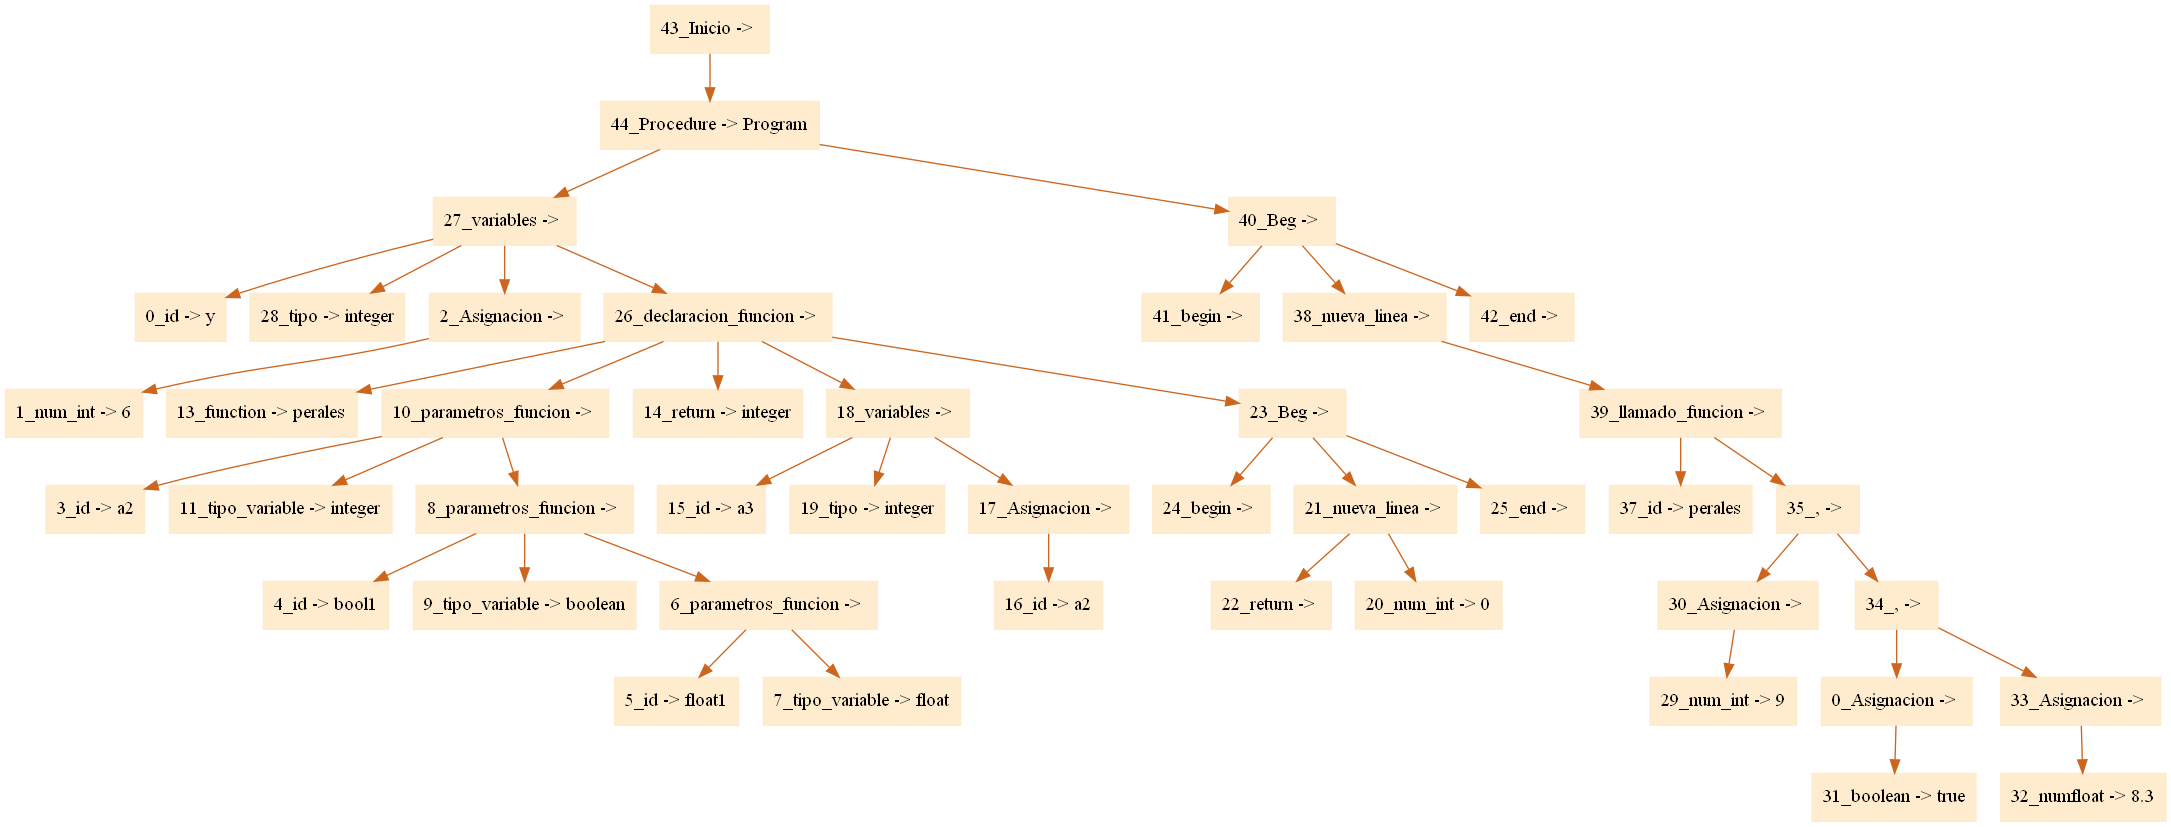
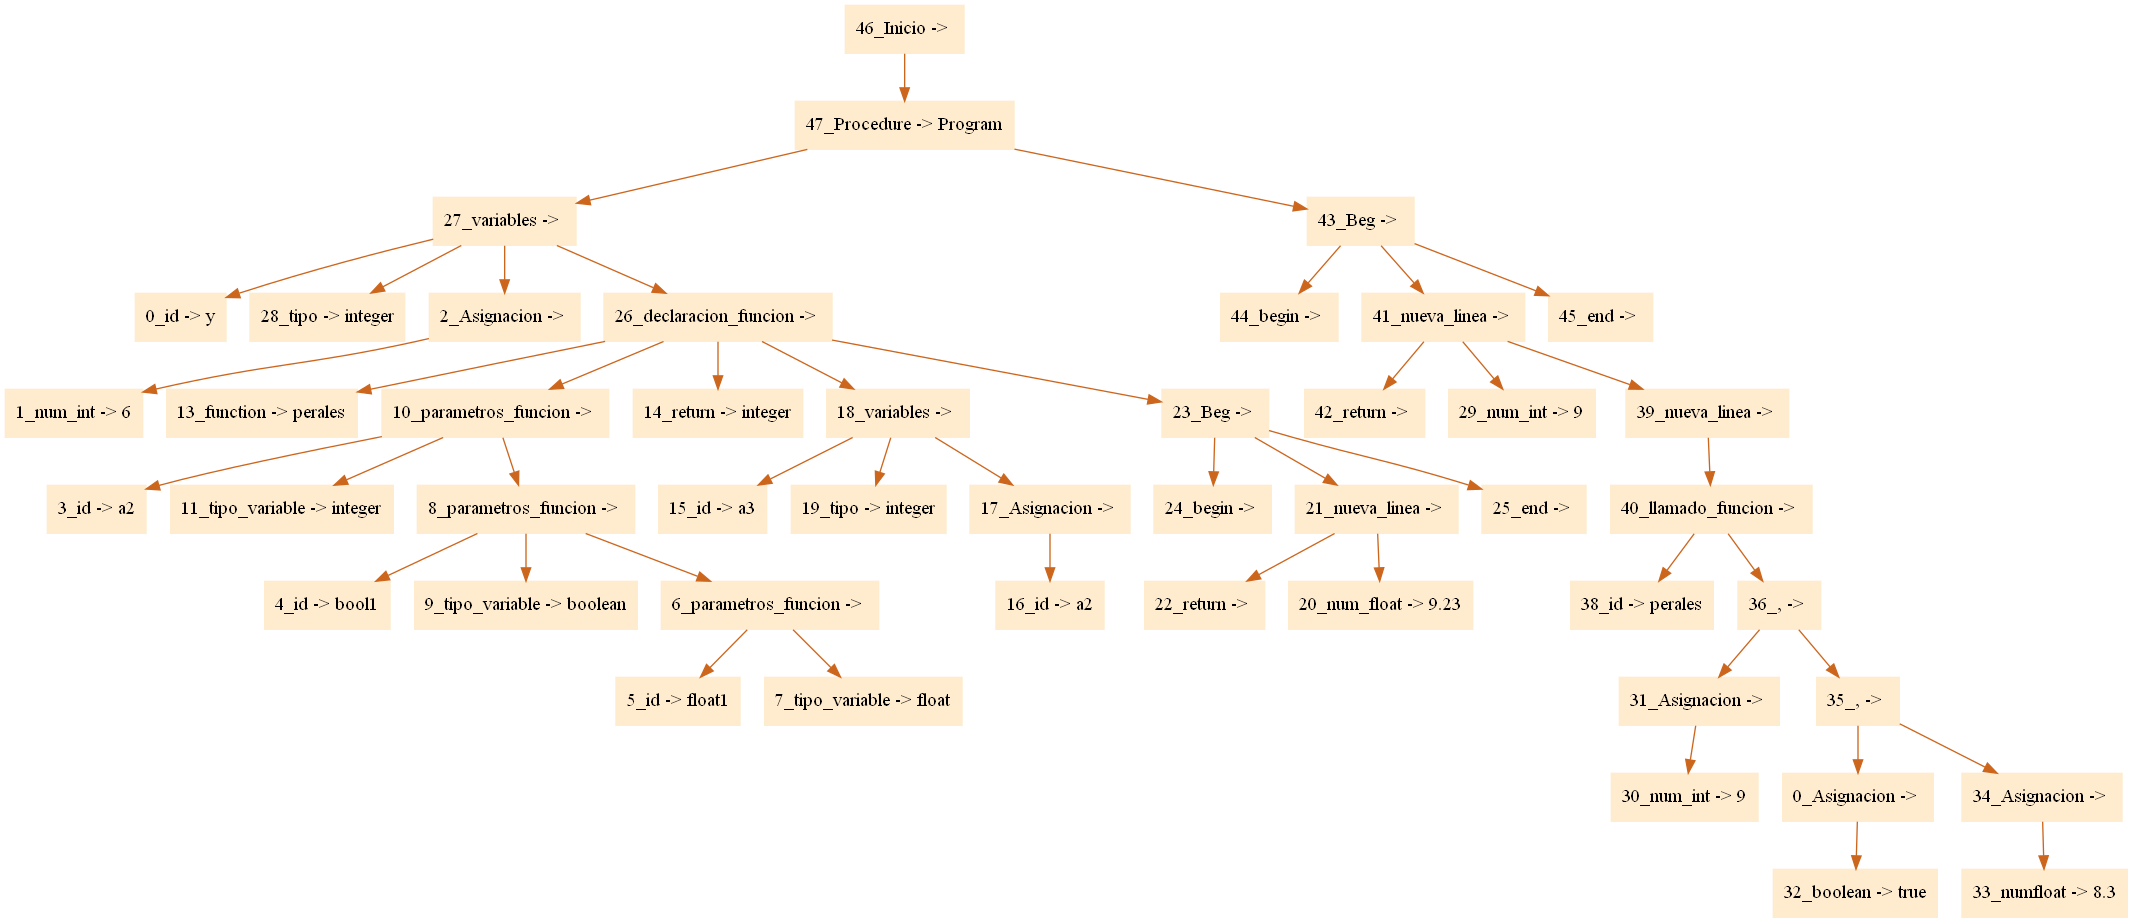
Codigo que valida return

Changed region(s): [[0.0, 0.2116, 1.0, 0.9976], [0.2785, 0.0907, 0.4951, 0.2116], [0.2785, 0.0, 0.4641, 0.0907]]

diff --git a/ProyectoCompiladores/src/proyectocompiladores/InterfazCompilador.java b/ProyectoCompiladores/src/proyectocompiladores/InterfazCompilador.java
@@ -700,6 +700,7 @@ public class InterfazCompilador extends javax.swing.JFrame {
     Sintax sintactico;
     TablaSimbolos SymbolTable;
     boolean flagFuncionError;
+    int handleReturn = 0;
 
     private String AnalizarSintaxis() {
         lexico = new AdaLexerCup(new BufferedReader(new StringReader(jtxtarea_entrada.getText())));
@@ -825,15 +826,25 @@ public class InterfazCompilador extends javax.swing.JFrame {
                     recorrer(hoja, ambito + "." + hoja.getValor());
                 }
                 if (hoja.getNombre().equals("Beg")) {
-                    System.out.println(padre.getNombre() + "padre");
-                    recorrerCuerpo(hoja.getHijos().get(1), ambito);//llamar un método para comprobar asignacion, se le envía el nodo nueva_linea
+                    boolean retorno = false;
+                    String tipoRetorno = "void";
+                    if (padre.getNombre().equals("declaracion_funcion")) {
+                        retorno = true;
+                        tipoRetorno = padre.getHijos().get(2).getValor();
+                    }
+                    recorrerCuerpo(hoja.getHijos().get(1), ambito, retorno, tipoRetorno);//llamar un método para comprobar asignacion, se le envía el nodo nueva_linea
+                    if (handleReturn == 0 && padre.getNombre().equals("declaracion_funcion")) {
+                        SymbolTable.getErroresSemanticos().add("error, valor de retorno esperado para funcion "
+                                + padre.getHijos().get(0).getValor());
+                    }
+                    handleReturn = 0;
                 }
                 recorrer(hoja, ambito);
             }
         }
     }
 
-    public void recorrerCuerpo(Nodo padre, String ambito) {
+    public void recorrerCuerpo(Nodo padre, String ambito, boolean retorno, String tipoRetorno) {
         for (Nodo hoja : padre.getHijos()) {
             if (!hoja.isVisitado()) {
                 hoja.setVisitado(true);
@@ -842,7 +853,6 @@ public class InterfazCompilador extends javax.swing.JFrame {
                     comprobarValor(hoja.getHijos().get(1), ambito, tipoAsignado);
                 }
                 if (hoja.getNombre().equals("for")) {
-                    System.out.println("Hay un for");
                     String ambitofor = ambito + "." + contadorid;
                     contadorid++;
                     SymbolTable.insertar2(hoja.getHijos().get(0).getValor(), "integer", "", false, false, ambitofor);
@@ -857,7 +867,6 @@ public class InterfazCompilador extends javax.swing.JFrame {
                     System.out.println("Hay un exit-when");
                 }// NUEVO PUSH
                 if (hoja.getNombre().equals("put")) {
-                    System.out.println("Hay un put");
                     if (hoja.getHijos().get(0).getHijos().get(0).getHijos().size() > 1) {
                         String tipoPut = comprobarValorMejorado(hoja.getHijos().get(0).getHijos().get(0), ambito, "");
                     }
@@ -867,12 +876,10 @@ public class InterfazCompilador extends javax.swing.JFrame {
                     String encuentraId = SymbolTable.buscarTipo(hoja.getValor(), ambito);
                 }
                 if (hoja.getNombre().equals("llamado_funcion")) {
-                    System.out.println("Hay un llamdo_funcion");
                     String tipoFuncion = SymbolTable.buscarTipo(hoja.getHijos().get(0).getValor(), ambito);
                     String tipoParam = comprobarLlamadoFuncion(hoja.getHijos().get(1), ambito, "");
                     System.out.println(tipoParam);
                     tipoFuncion = SymbolTable.buscarDominio(tipoFuncion);
-                    //System.out.println(tipoFuncion);
                     if (!tipoFuncion.equals(tipoParam) || flagFuncionError == true) {
                         SymbolTable.getErroresSemanticos().add("error, llamado de función inválido");
                     }
@@ -881,11 +888,25 @@ public class InterfazCompilador extends javax.swing.JFrame {
                     System.out.println("Hay un if-then ");
                 }
                 if (hoja.getNombre().equals("return")) {
-                    System.out.println("Hay un return");
-                    String retorno = SymbolTable.buscarRetorno("integerxintegerxboolean -> integer");
-                    System.out.println(retorno);
+                    handleReturn++;
+                    if (retorno) {
+                        if (padre.getHijos().get(1).getNombre().equals("id")) {
+                            String idTipo = SymbolTable.buscarTipo(hoja.getHijos().get(0).getValor(), ambito);
+                            if (!idTipo.equals(tipoRetorno)) {
+                                SymbolTable.getErroresSemanticos().add("error, retorno esperado " + tipoRetorno
+                                        + " valor encontrado " + idTipo);
+                            }
+                        } else {
+                            if (!convertirTipos(padre.getHijos().get(1).getNombre()).equals(tipoRetorno)) {
+                                SymbolTable.getErroresSemanticos().add("error, retorno esperado " + tipoRetorno + ", valor encontrado "
+                                        + convertirTipos(padre.getHijos().get(1).getNombre()));
+                            }
+                        }
+                    } else {
+                        SymbolTable.getErroresSemanticos().add("error, valor de retorno no esperado");
+                    }
                 }
-                recorrerCuerpo(hoja, ambito);
+                recorrerCuerpo(hoja, ambito, retorno, tipoRetorno);
             }
         }
     }
@@ -898,17 +919,13 @@ public class InterfazCompilador extends javax.swing.JFrame {
             String tipo1, tipo2;
             if (padre.getHijos().get(0).getNombre().equals("id")) { // busca en caso de id
                 tipo1 = SymbolTable.buscarTipo(padre.getHijos().get(0).getValor(), ambito);
-                System.out.println(tipo1 + " tipo 1 caso base");
             } else {
                 tipo1 = convertirTipos(padre.getHijos().get(0).getNombre());
-                System.out.println(tipo1 + " tipo 1 caso base no es id");
             }
             if (padre.getHijos().get(1).getNombre().equals("id")) { //busca en caso de id
                 tipo2 = SymbolTable.buscarTipo(padre.getHijos().get(1).getValor(), ambito);
-                System.out.println(tipo2 + " tipo 2 caso base");
             } else {
                 tipo2 = convertirTipos(padre.getHijos().get(1).getNombre());
-                System.out.println(tipo2 + " tipo 2 caso base no es id");
             }
             if (tipo1.equals(tipo2) && (!tipo1.contains("error"))) { //evalúa que los tipos sean igual
                 tipo = tipo1;
@@ -946,8 +963,6 @@ public class InterfazCompilador extends javax.swing.JFrame {
             } else {
                 tipo2 = convertirTipos(padre.getHijos().get(1).getNombre());
             }
-            System.out.println(padre.getHijos().get(0).getNombre() + " tipooo1 ");
-            System.out.println(tipo2 + " tipooo2");
             if (tipo1.equals(tipo2) && (!tipo1.contains("error"))) { // evalúa si son iguales
                 tipo = tipo1;
                 flagFuncionError = false;
@@ -1112,7 +1127,7 @@ public class InterfazCompilador extends javax.swing.JFrame {
                 //System.out.println("entró precedencia");
             }
         }
-        return tipo.substring(0, tipo.length()-1);
+        return tipo.substring(0, tipo.length() - 1);
     }
 
     public void recorrerRepeticion(Nodo padre, String valor, String tipo, String ambito) {

diff --git a/ProyectoCompiladores/src/comprobacionTipos/TablaSimbolos.java b/ProyectoCompiladores/src/comprobacionTipos/TablaSimbolos.java
@@ -198,20 +198,6 @@ public class TablaSimbolos {
         }
         return tipo;
     }
-    
-    static public String buscarRetorno (String tipo) {
-        tipo = tipo.trim();
-        String retorno = "";
-        for (int i = 0; i < tipo.length(); i++) {
-            if (tipo.charAt(i) == '-') {
-                retorno = tipo.substring(i+2, tipo.length());
-                //System.out.println(tipo + "tipo Dominio");
-                break;
-            }
-        }
-        retorno = retorno.trim();
-        return retorno;
-    }
 
     static public String buscarTipo(String nombre) {
         String tipo = "";
